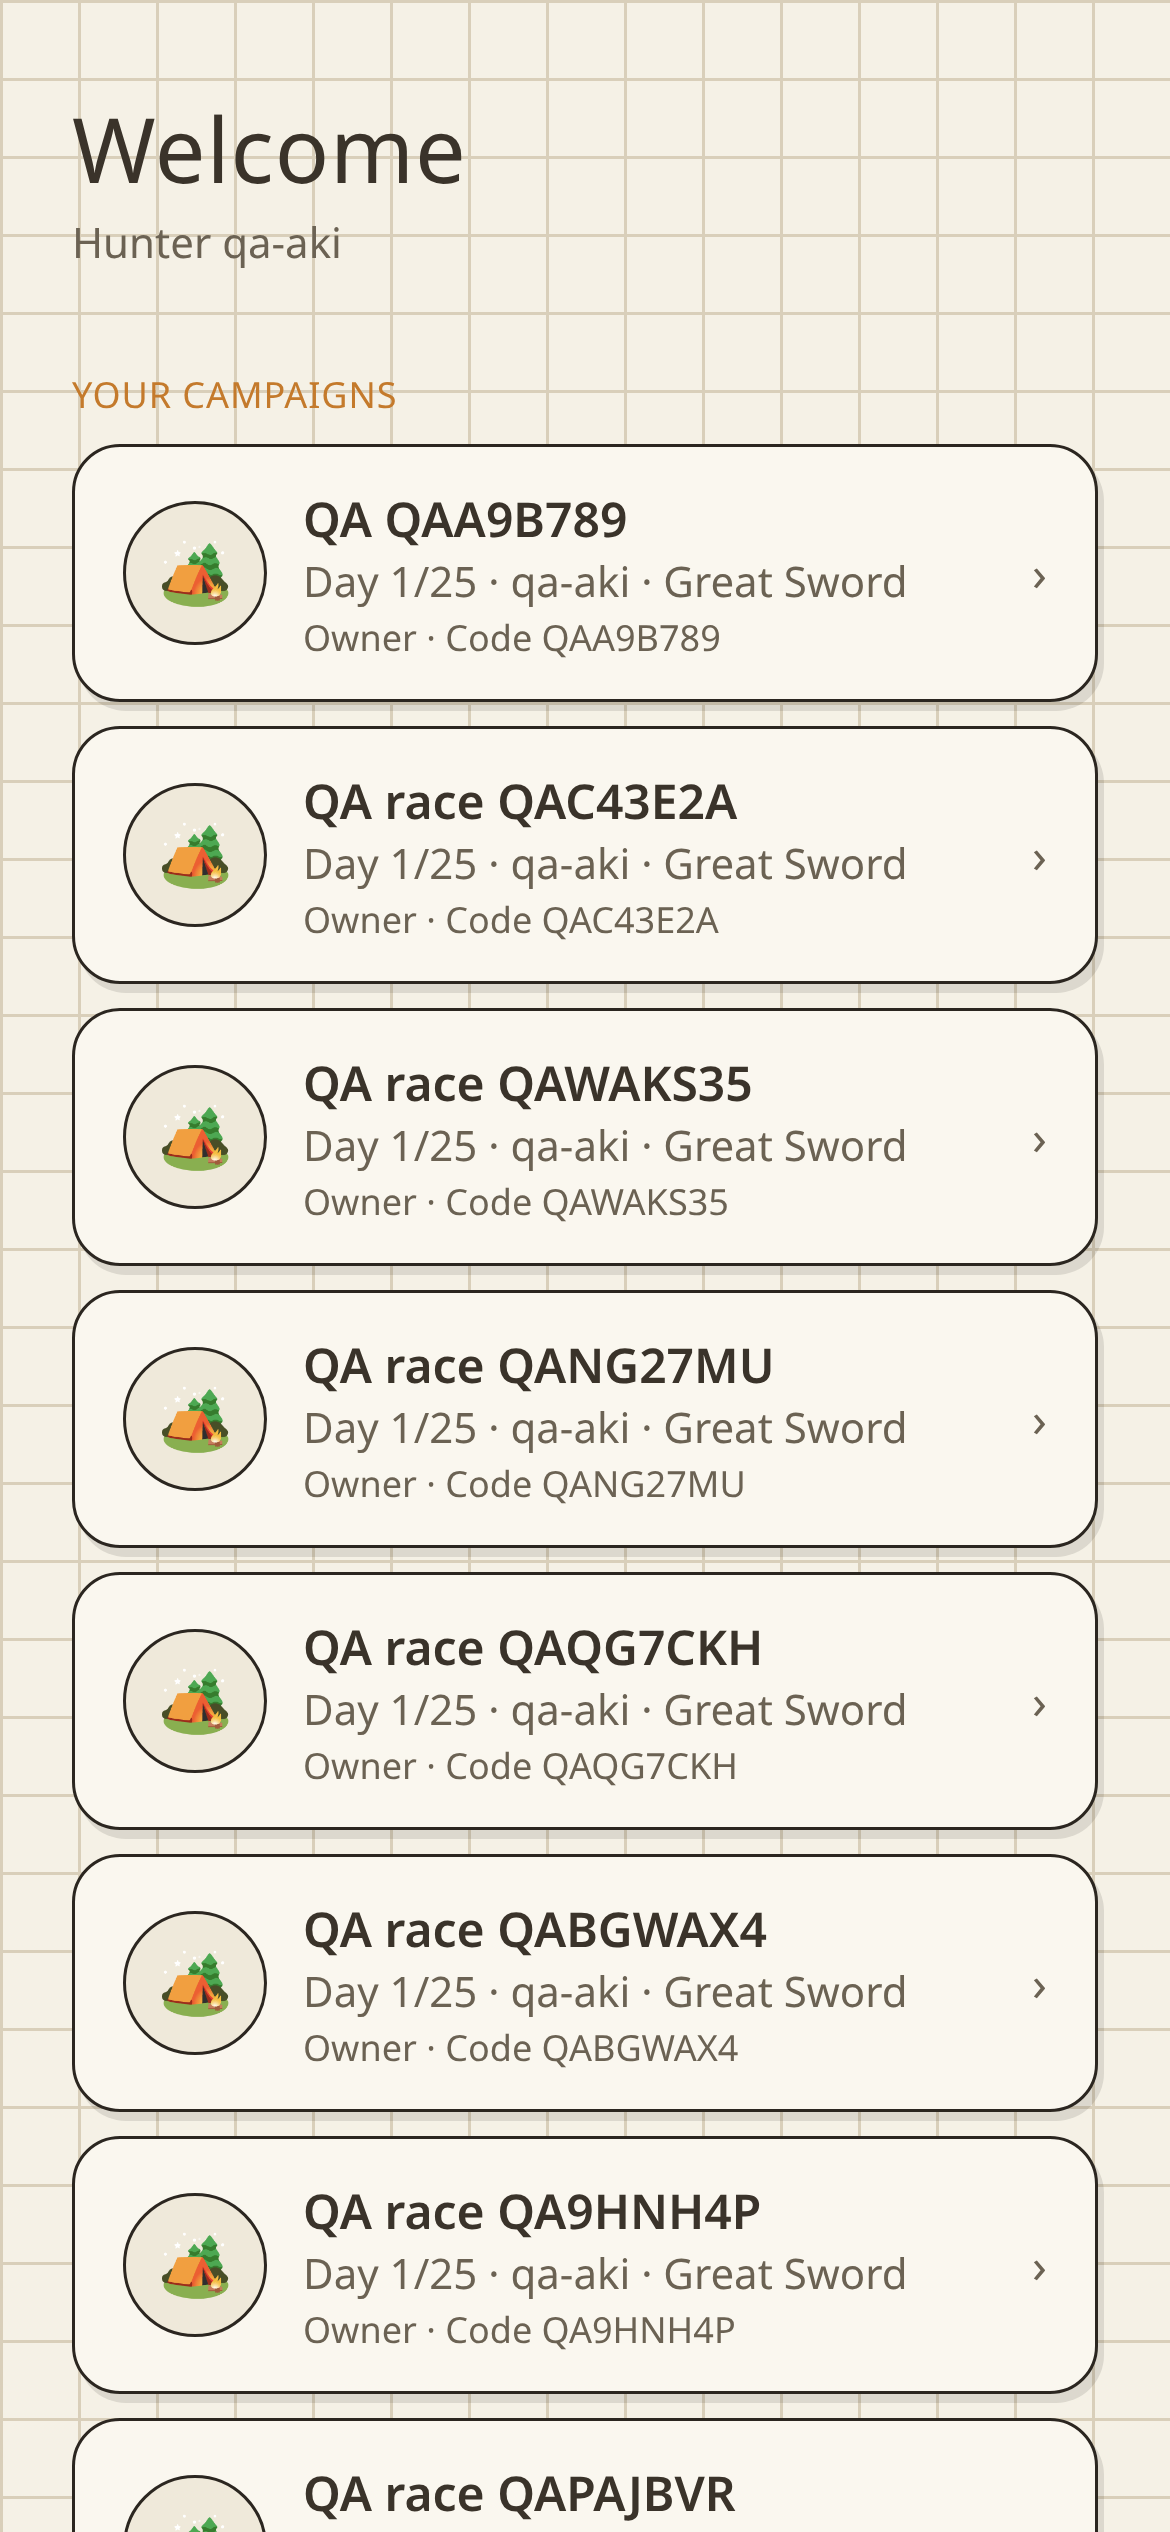
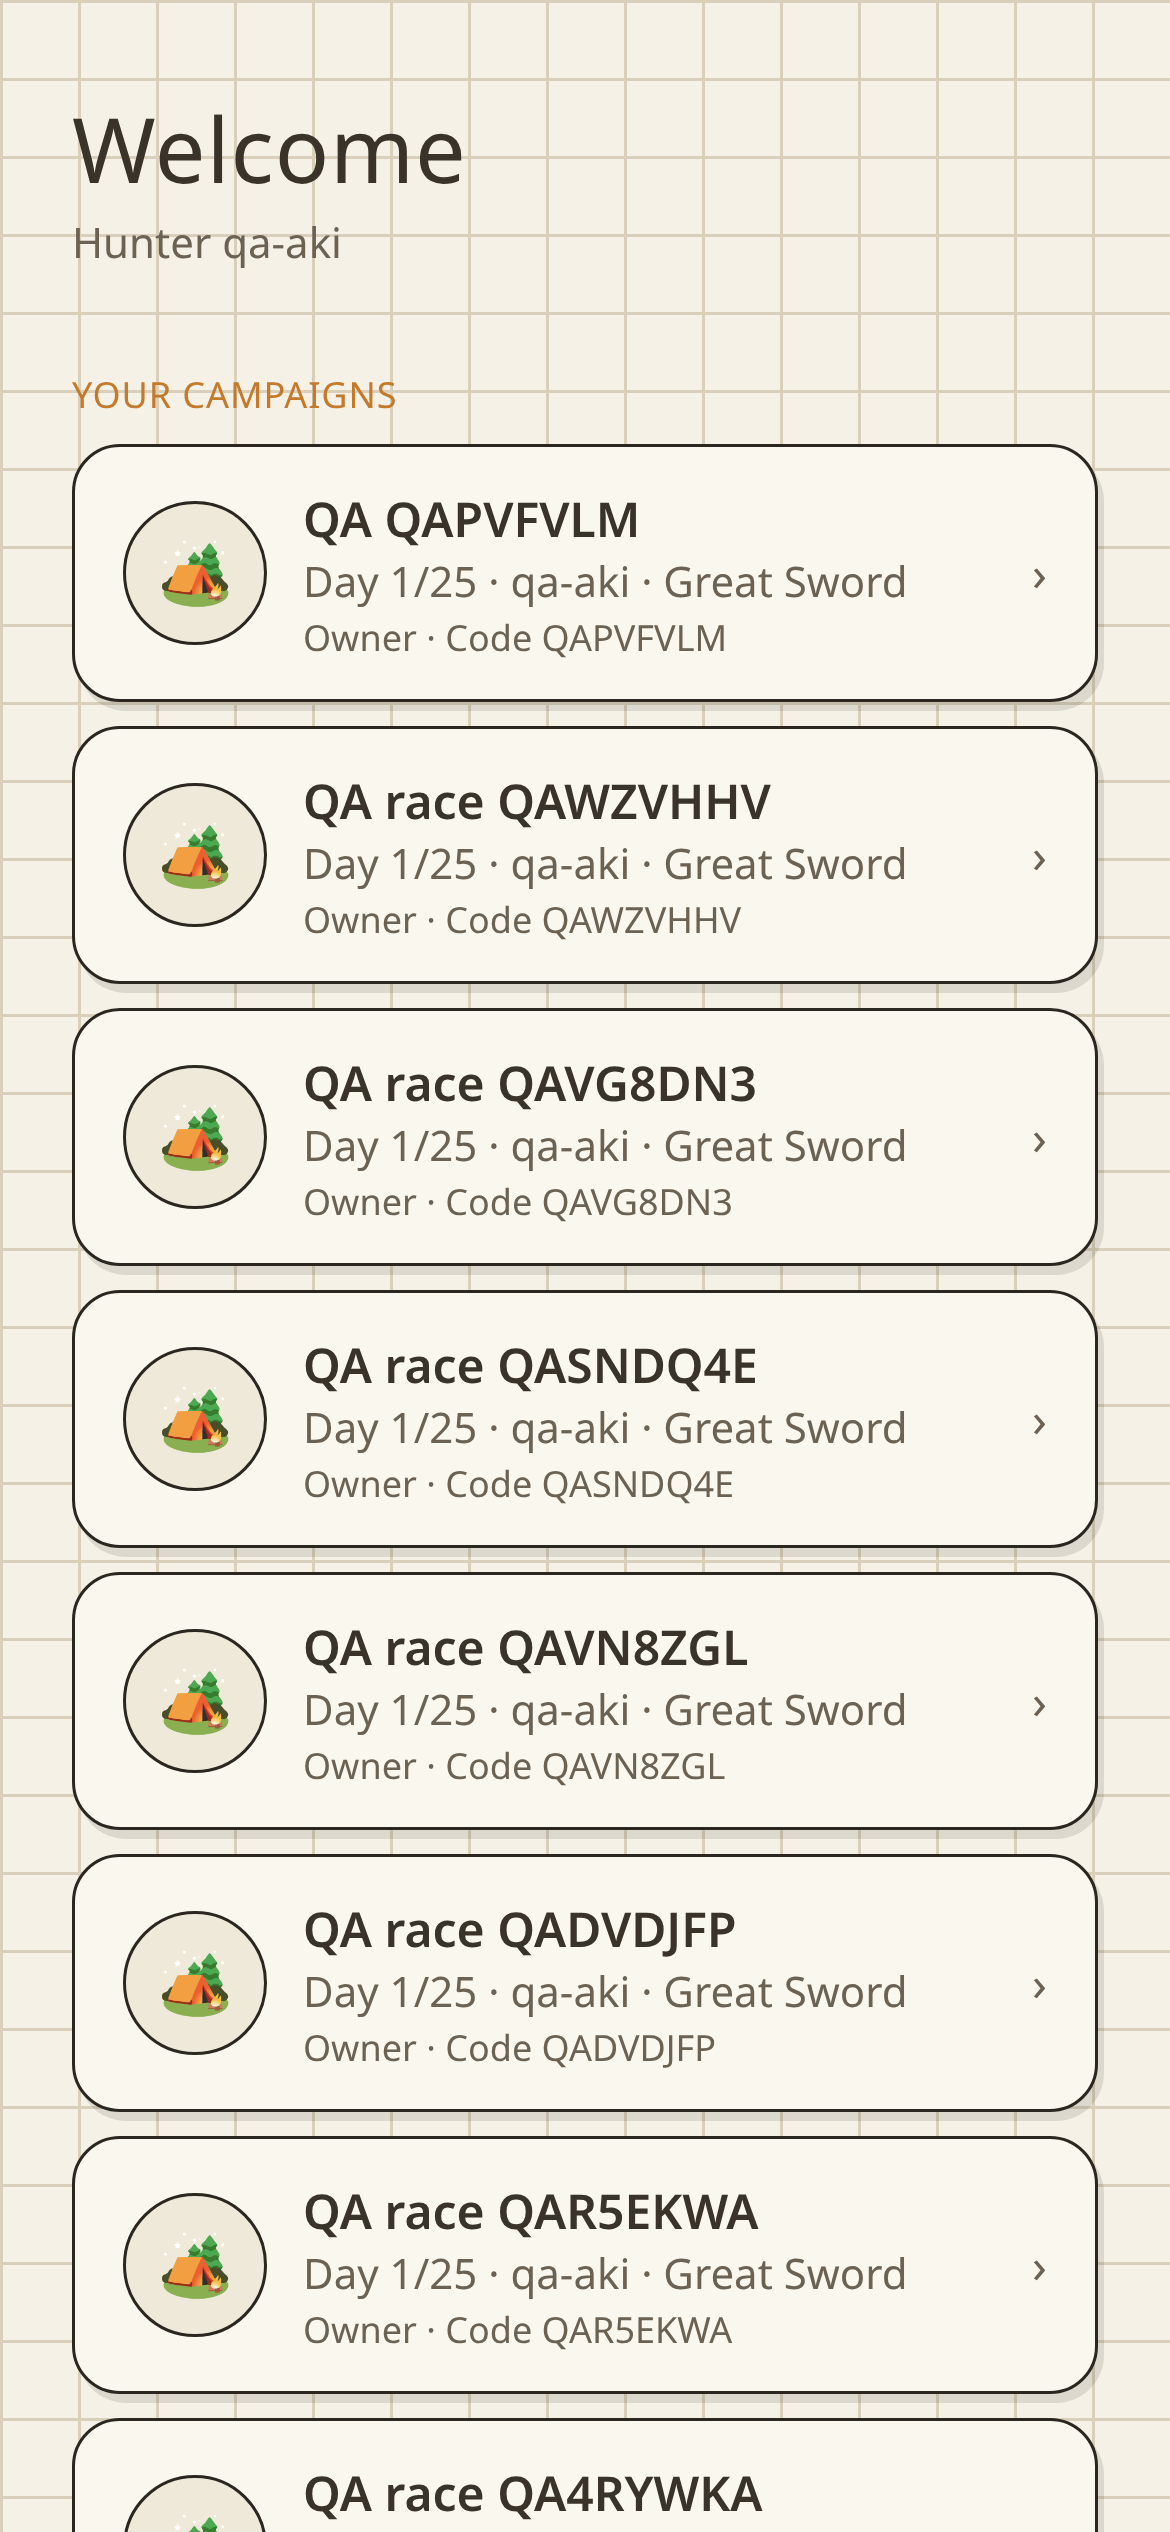
Correct the merge rule so party-wide loot initialisation survives
The first merge_active_quest kept only per-hunter entries already present in
the row, which dropped the lootProgress entries the quest starter seeds for the
whole party in completeQuestSuccess — the party then never reached the loot
screen. A new key from the caller is now accepted; only keys that already exist
for another hunter are protected from being overwritten.

Records the RPCs in supabase/schema.sql (they were applied via migration) and
updates the QA report: QA-1 and QA-2 are fixed, their reproductions are now
permanent regression tests, and the whole suite is genuinely green (16/16).

Notes that Vercel preview deployments cannot run the suite, since SUPABASE_URL
and SUPABASE_ANON_KEY are only set for the Production environment.

diff --git a/tests/e2e/sync-race.spec.ts b/tests/e2e/sync-race.spec.ts
@@ -48,9 +48,6 @@ async function freshParty(browser: Parameters<typeof Hunter.create>[0]) {
 test("two hunters opening the lobby at once both stay in the party", async ({
   browser,
 }) => {
-  // KNOWN BUG (QA-1): reproduces every run. `test.fail()` keeps the suite
-  // honest — it asserts the bug is still there and turns red once it is fixed.
-  test.fail(true, "QA-1: concurrent lobby joins clobber each other");
   const { quest } = await freshParty(browser);
 
   await aki.page.goto("/campaign/quests");
@@ -76,9 +73,6 @@ test("two hunters opening the lobby at once both stay in the party", async ({
 });
 
 test("simultaneous loot confirmations are not lost", async ({ browser }) => {
-  // KNOWN BUG (QA-2): same root cause as QA-1 — a hunter's `choice` and
-  // `confirmed` flag are dropped when three clients write the blob at once.
-  test.fail(true, "QA-2: concurrent loot confirmations clobber each other");
   const { quest } = await freshParty(browser);
 
   await aki.page.goto("/campaign/quests");

diff --git a/docs/qa/e2e-report.md b/docs/qa/e2e-report.md
@@ -15,18 +15,24 @@ gets in with a `_vercel_share` token (`E2E_SHARE_TOKEN`), which sets a bypass
 cookie on first navigation.
 
 ```bash
+# against the deployed production app
 E2E_SHARE_TOKEN=<token> npm run test:e2e
+
+# against a local dev server (Vercel *preview* deployments have no Supabase
+# env vars — only Production does — so previews cannot run this suite)
+npm run dev
+E2E_BASE_URL=http://localhost:5173 E2E_SHARE_TOKEN= npm run test:e2e
 ```
 
-**Result: 16 tests, 14 passing, 2 reproducing known bugs** (encoded with
-`test.fail()`, so the suite is green today and turns red the moment either bug
-is fixed).
+**Result: 16 tests, all passing.** Two high-severity concurrency bugs were found
+and **have since been fixed**; the tests that reproduced them are now permanent
+regression tests.
 
 ---
 
 ## Findings
 
-### QA-1 — Concurrent lobby joins silently drop a hunter · **high**
+### QA-1 — Concurrent lobby joins silently drop a hunter · **high** · ✅ fixed
 
 **Reproduces every run** (5/5). `tests/e2e/sync-race.spec.ts`.
 
@@ -54,7 +60,7 @@ because at the column level the write is not a conflict — it is just newer.
 **Why it matters:** this is the normal case at a physical table, not an edge
 case. Everyone taps "join" when the quest starts.
 
-### QA-2 — Concurrent loot confirmations are lost · **high**
+### QA-2 — Concurrent loot confirmations are lost · **high** · ✅ fixed
 
 **Reproduces every run** (3/3). Same spec, same root cause.
 
@@ -75,20 +81,38 @@ The quest then cannot reach the summary phase, because that requires every
 hunter to be confirmed — the party is stuck on the loot screen, and the affected
 hunter loses their roll.
 
-**Suggested fix for QA-1 + QA-2 (one fix, both bugs).** Make the per-hunter
-mutations atomic in Postgres instead of read-modify-write on the client. Two
-`security definer` RPCs alongside the existing `join_campaign` family in
-`supabase/schema.sql`:
+### The fix (one change, both bugs)
 
-- `quest_set_ready(campaign_id, hunter_id, ready boolean)` — adds/removes one id
-  in `active_quest->'readyHunterIds'`
-- `quest_set_loot(campaign_id, hunter_id, progress jsonb)` — sets
-  `active_quest->'lootProgress'->hunter_id`
+`active_quest` is no longer written as a plain column update. It goes through a
+`security definer` RPC, `merge_active_quest(campaign_id, quest, hunter_id)`
+(`supabase/schema.sql`), which takes a row lock and applies the merge rule:
 
-Both return the updated `active_quest` for the client to adopt. Concurrent calls
-then serialise in the database. The same reasoning applies to
-`investigationLoot` and to `activeDowntime`'s per-hunter confirmations, which
-are the same shape and were not separately tested.
+| key | winner |
+|---|---|
+| the caller's own hunter entry | the caller |
+| another hunter's entry that is already stored | the database |
+| another hunter's entry that is new | the caller (initialisation) |
+
+`readyHunterIds` is deliberately **not** a plain union — that would make leaving
+a lobby impossible. The caller's own membership is applied in whichever
+direction it moved; everyone else's is taken from the stored row. A different
+`questId`, or a cleared quest, still replaces wholesale, because only concurrent
+edits to the *same* quest need merging.
+
+Client side, `src/lib/sync/mappers.ts` drops `active_quest` from
+`campaignToStateUpdate`, and `src/lib/sync/engine.ts` writes it via
+`pushActiveQuest()` while tracking it as its own push-snapshot section so a
+quest-only change still triggers a push.
+
+**A regression caught while fixing this:** the first version of the merge kept
+only entries already present in the database, which silently dropped the loot
+entries the quest starter seeds *for the whole party* in
+`completeQuestSuccess`. The party then never reached the loot screen. That is
+what the third rule in the table above exists for.
+
+**Not yet given the same treatment:** `activeDowntime`'s per-hunter
+confirmations are the same shape and the same hazard, but were not covered by
+this pass.
 
 ### QA-3 — "Beitreten" is German in an otherwise English UI · **low**
 
@@ -126,8 +150,8 @@ Verified end to end, against both UI and database:
 | Party summary → day 1→2, `hunts_completed` recorded, quest cleared | pass |
 | Assigned quest caps at one completion, then unlocks the investigation tier | pass |
 | No unexpected `alert()` rule violations during a full hunt | pass |
-| Concurrent lobby joins | **fail — QA-1** |
-| Concurrent loot confirmations | **fail — QA-2** |
+| Concurrent lobby joins (QA-1 regression test) | pass |
+| Concurrent loot confirmations (QA-2 regression test) | pass |
 
 Not yet exercised — these remain open for the next pass: inventory tabs and
 quantity editing, forge crafting (weapon tree + armour set), party trading,
